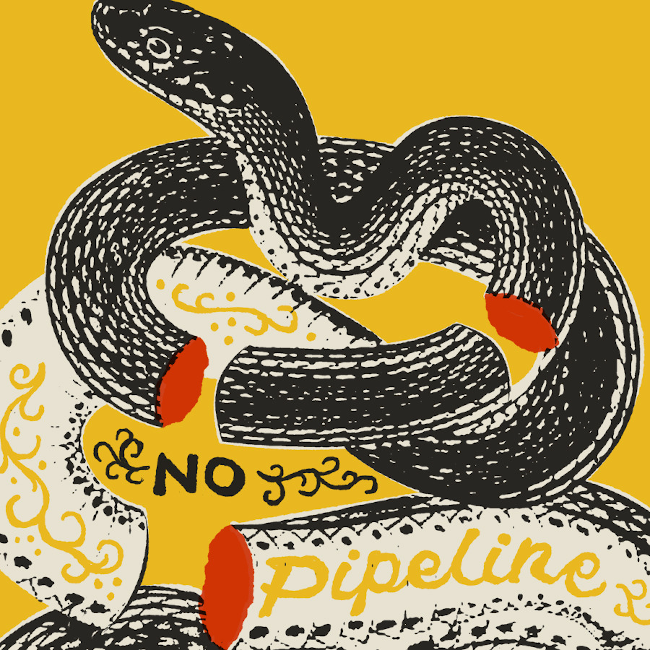
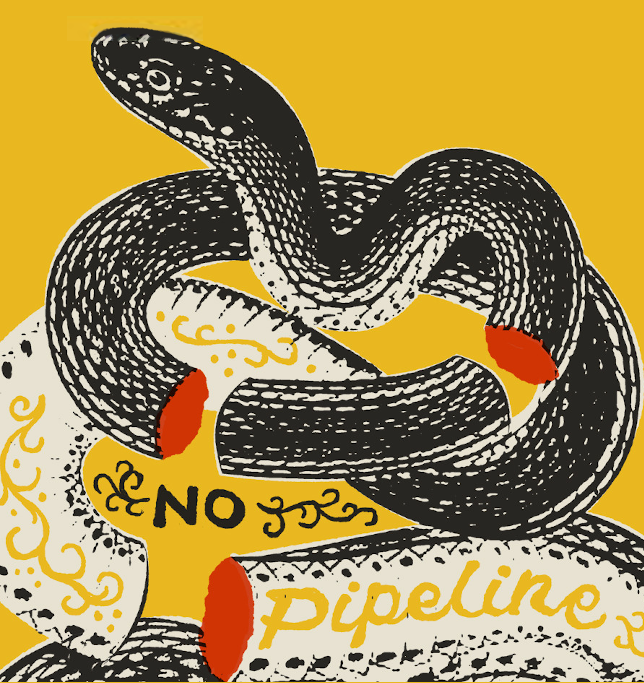
Latest styling and whatnot...

diff --git a/app/client/src/style/OlStyleDefs.js b/app/client/src/style/OlStyleDefs.js
@@ -246,9 +246,29 @@ export const layersStylePropFn = {
       return Math.sqrt(propertyValue) * 0.7;
     }
   },
+  nuclear_power: {
+    circleRadiusFn: propertyValue => {
+      return Math.sqrt(propertyValue) * 0.2;
+    }
+  },
+  north_am_nuclear: {
+    circleRadiusFn: propertyValue => {
+      return Math.sqrt(propertyValue) * 0.35;
+    }
+  },
+  north_am_hydro: {
+    circleRadiusFn: propertyValue => {
+      return Math.sqrt(propertyValue) * 0.35;
+    }
+  },
+  hydro_power: {
+    circleRadiusFn: propertyValue => {
+      return Math.sqrt(propertyValue) * 0.2;
+    }
+  },
   all_refineries: {
     circleRadiusFn: propertyValue => {
-      return Math.sqrt(propertyValue) * 0.9;
+      return Math.sqrt(propertyValue) * 1.4;
     }
   },
   GiantOilFields: {

diff --git a/app/client/src/store/modules/map.js b/app/client/src/store/modules/map.js
@@ -157,7 +157,7 @@ const actions = {
             const nshades = features.length < 5 ? 5 : features.length; // 5 is the minimun of the shades
             const entities = {};
             const colors = colormap({
-              colormap: 'jet',
+              colormap: 'rainbow-soft',
               nshades: nshades,
               format: 'hex',
               alpha: 1
